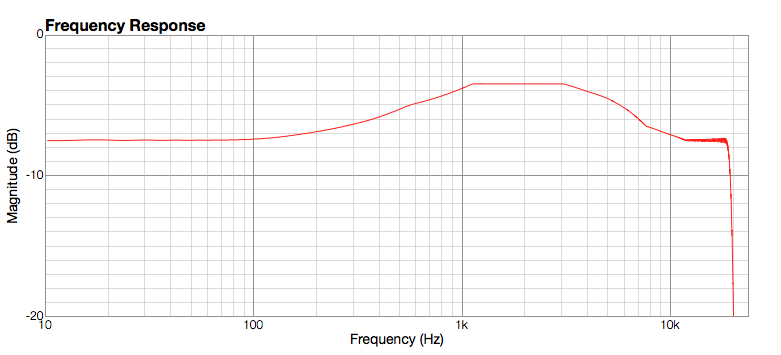
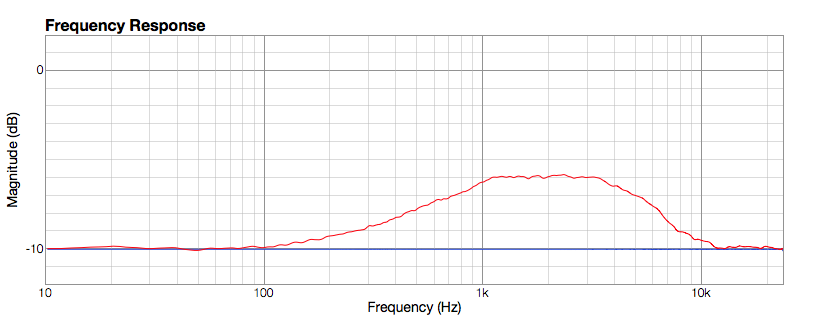
UF85 news, music 의 스펙이 변경되었습니다.

diff --git a/WebOS/UF85/2_Sound_Mode/2_Music/Music.tex b/WebOS/UF85/2_Sound_Mode/2_Music/Music.tex
@@ -11,10 +11,10 @@ Audio EQ & \color{black}{Off} & Instart &
 \item Frequency Response Check
 	\begin{itemize}
 	\item 20Hz에서 ref 신호와의 레벨 차이값이 -10.0dBr 이하
-	\item 100Hz에서 ref 신호와의 레벨 차이값이 5.0±1dBr 이내
-	\item 1kHz에서 ref 신호와의 레벨 차이값이 1.5±1dBr 이내
-	\item 5kHz에서 ref 신호와의 레벨 차이값이 3.0±1dBr 이내
-	\item 19kHz에서 ref 신호와의 레벨 차이값이 5.0±1dBr 이내
+	\item 100Hz에서 ref 신호와의 레벨 차이값이 4.0±1dBr 이내
+	\item 1kHz에서 ref 신호와의 레벨 차이값이 0.5±1dBr 이내
+	\item 5kHz에서 ref 신호와의 레벨 차이값이 2.0±1dBr 이내
+	\item 11kHz에서 ref 신호와의 레벨 차이값이 4.0±1dBr 이내
 	\end{itemize}
 \end{itemize}
 } \\

diff --git a/WebOS/UF85/2_Sound_Mode/1_News/News.tex b/WebOS/UF85/2_Sound_Mode/1_News/News.tex
@@ -10,10 +10,10 @@ Audio EQ & \color{black}{Off} & Instart &
 \begin{itemize}
 \item Frequency Response Check
 	\begin{itemize}
-	\item 80Hz에서 ref 신호와의 레벨 차이값이 2.5±1dBr 이내
-	\item 1.3Hz에서 ref 신호와의 레벨 차이값이 6.5±1dBr 이내
-	\item 3kHz에서 ref 신호와의 레벨 차이값이 6.5±1dBr 이내
-	\item 12kHz에서 ref 신호와의 레벨 차이값이 2.5±1dBr 이내
+	\item 80Hz에서 ref 신호와의 레벨 차이값이 0±1dBr 이내
+	\item 1.3kHz에서 ref 신호와의 레벨 차이값이 4.0±1dBr 이내
+	\item 3kHz에서 ref 신호와의 레벨 차이값이 4.0±1dBr 이내
+	\item 11kHz에서 ref 신호와의 레벨 차이값이 0±1dBr 이내
 	\end{itemize}
 \end{itemize}
 } \\
